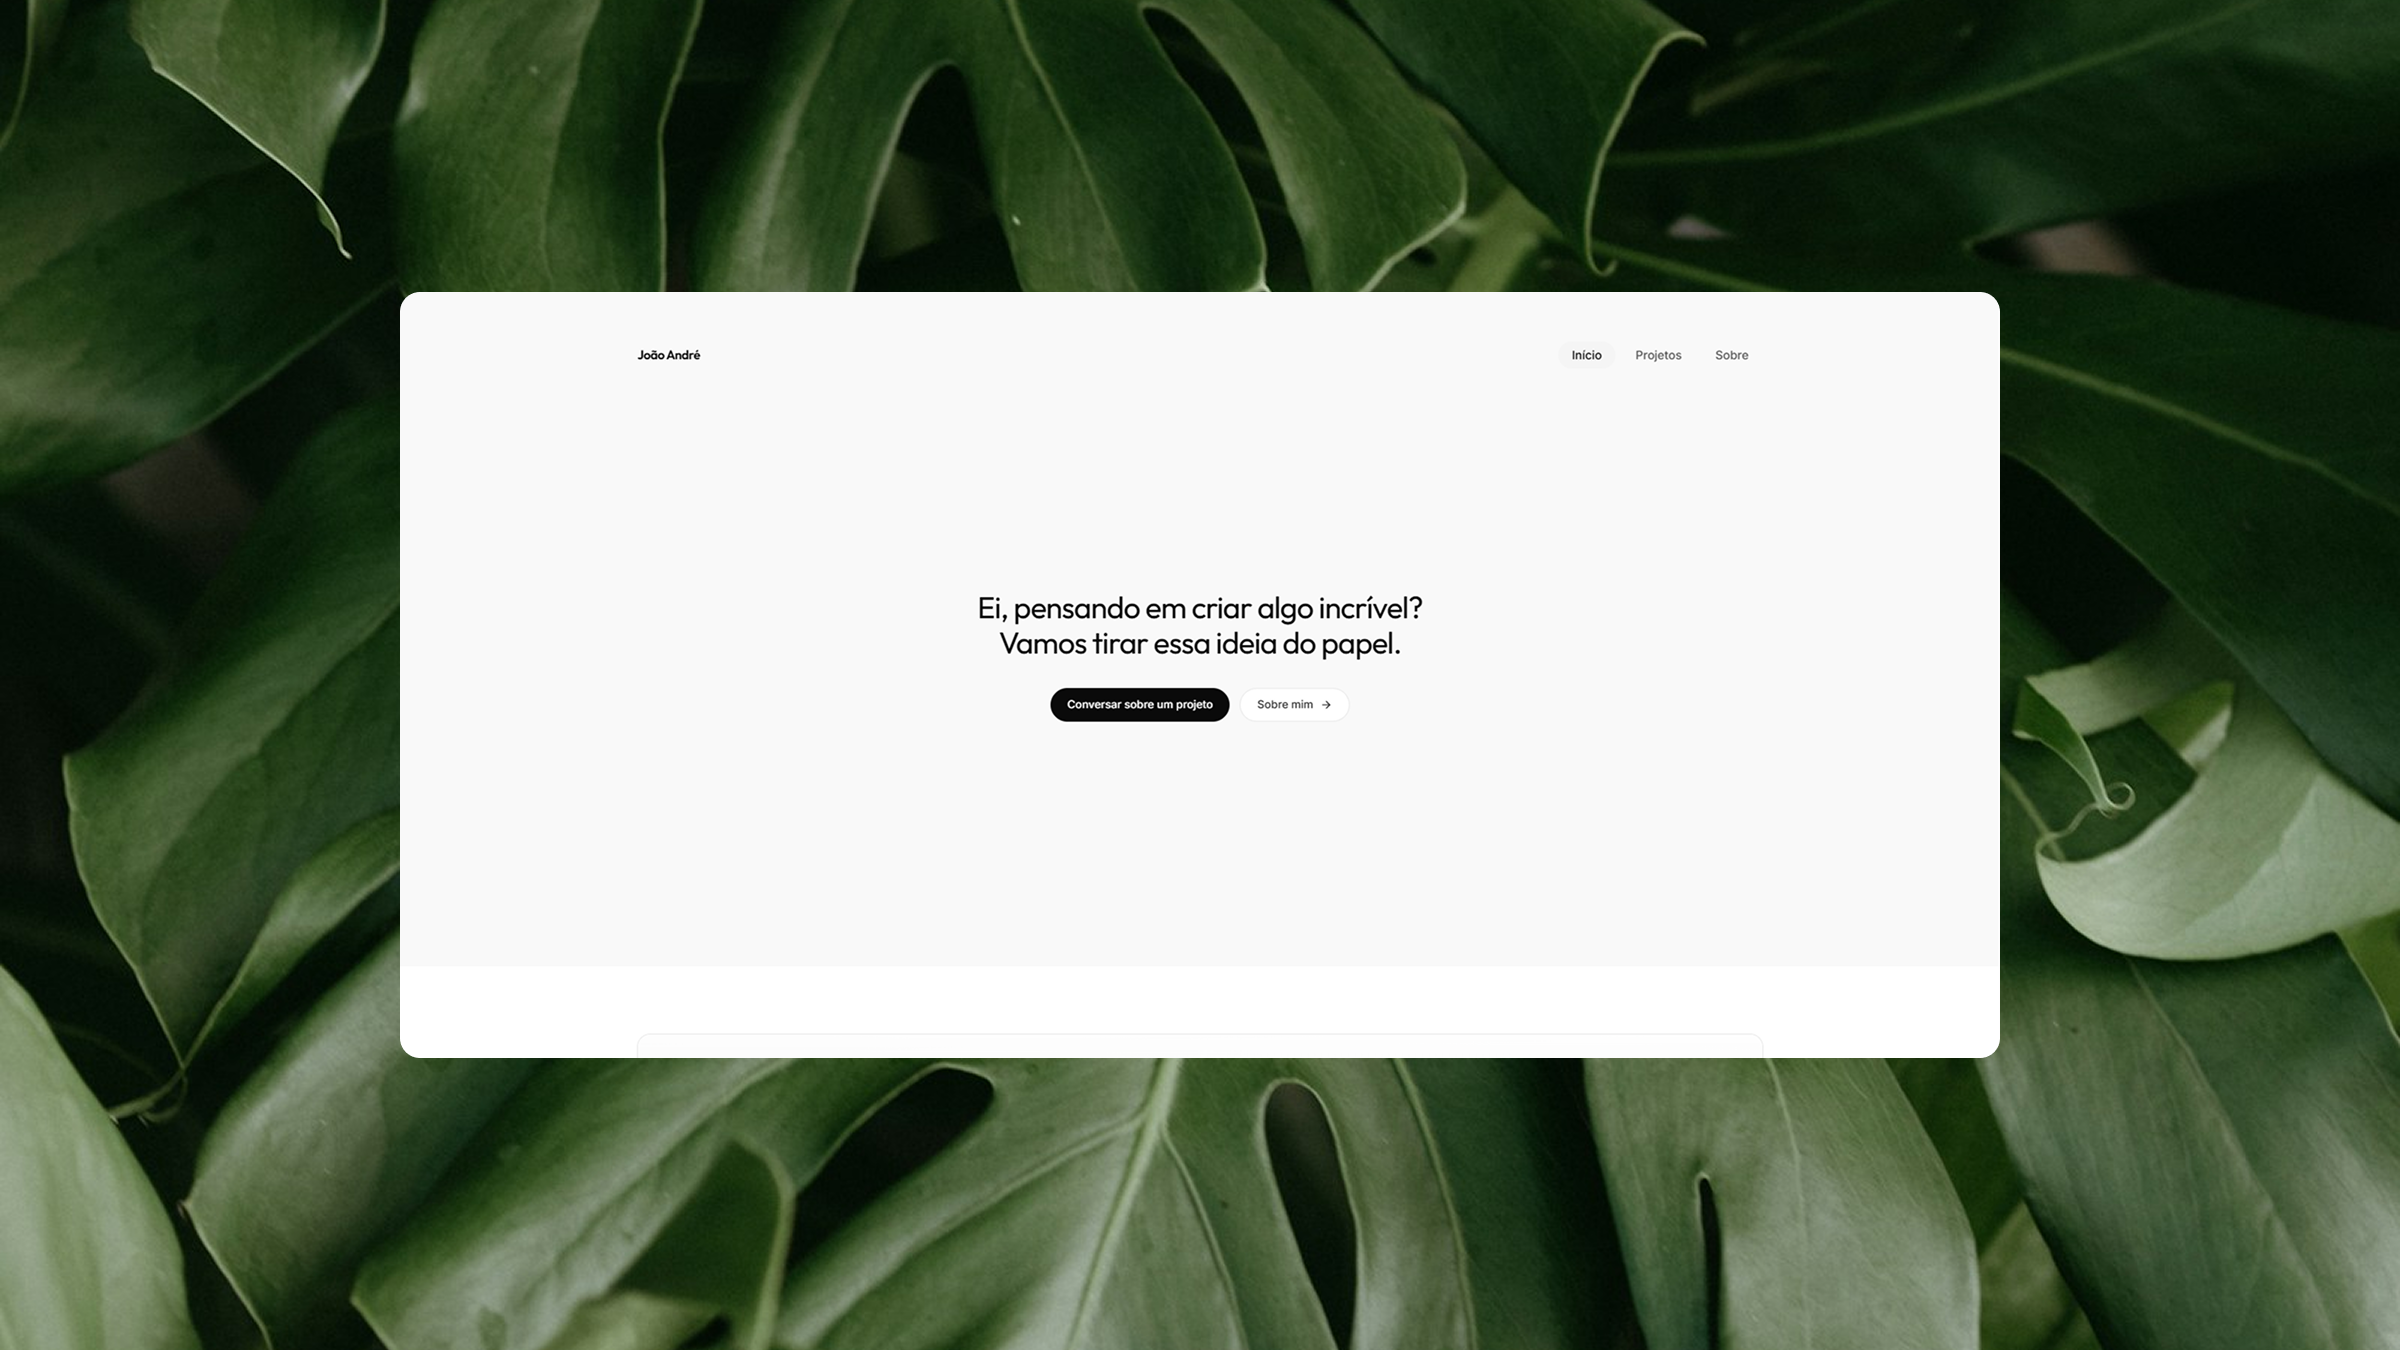
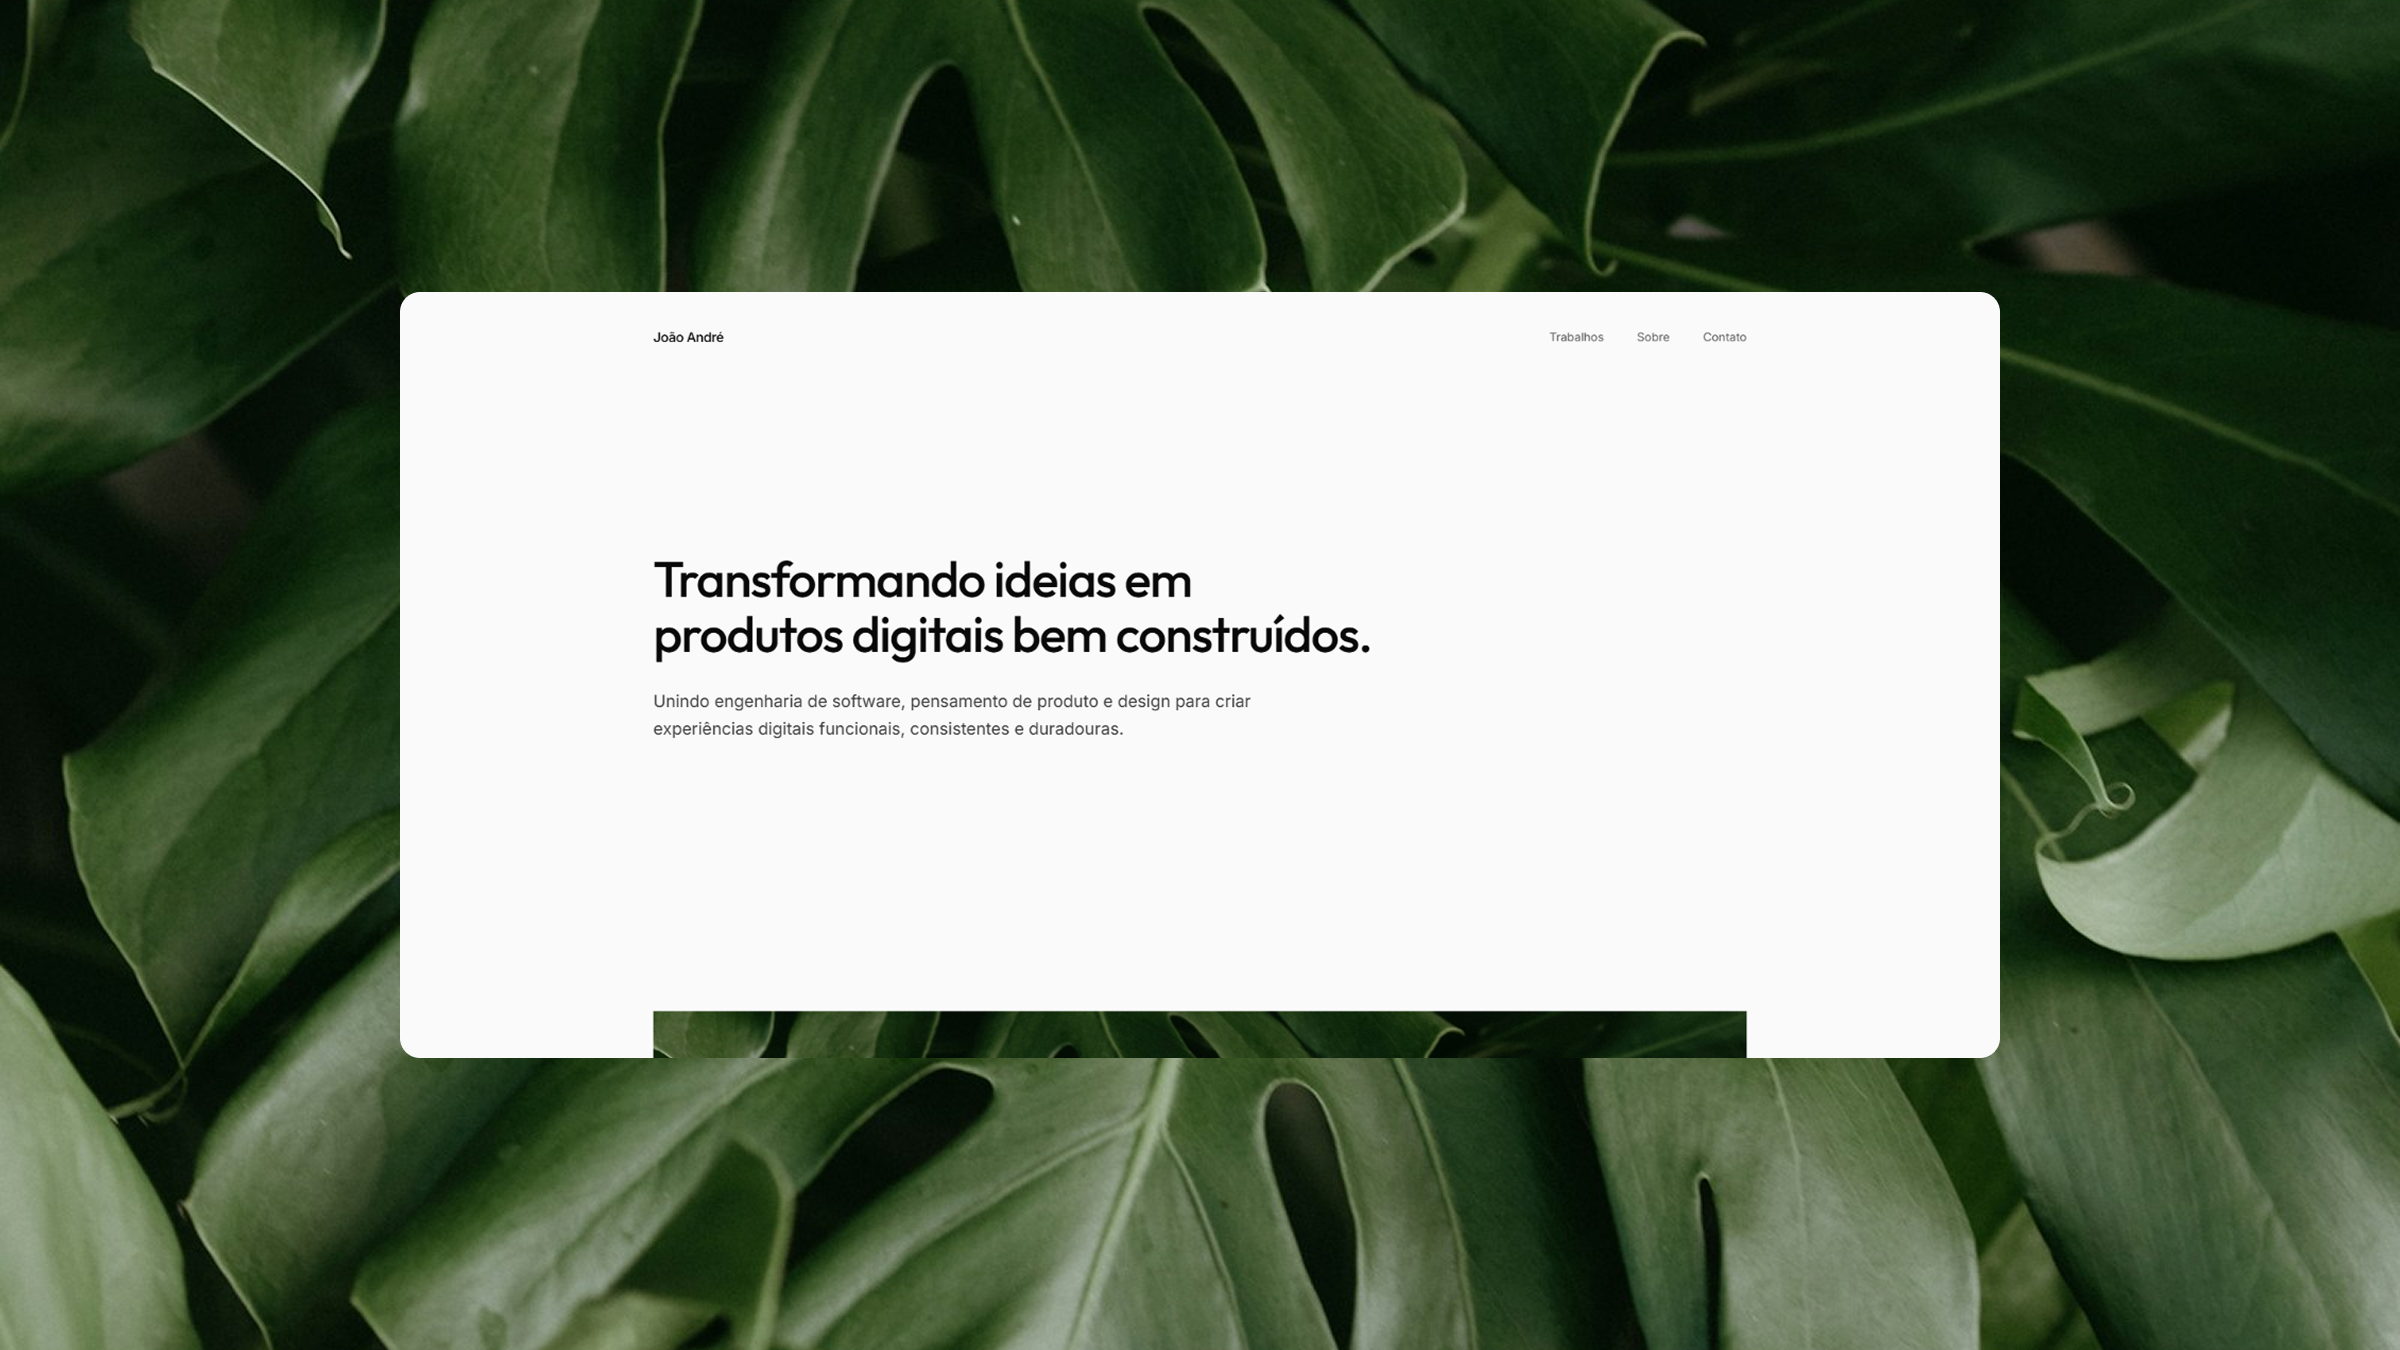
feat: atualiza informações e imagens dos projetos

diff --git a/src/data/projects.ts b/src/data/projects.ts
@@ -58,18 +58,20 @@ export const PROJECTS: ProjectItem[] = [
     {
         slug: "vitrine",
         title: "Vitrine",
-        context: "Micro-SaaS & E-commerce",
+        context: "Micro-SaaS & Creator Economy",
         year: "2026",
         summary:
-            "Plataforma micro-SaaS voltada para pequenos lojistas que vendem pelo Instagram e fecham pedidos pelo WhatsApp. O projeto centraliza o catálogo em um link leve para a bio, permitindo a seleção de produtos e o encaminhamento do pedido formatado diretamente no aplicativo de mensagens.",
+            "Plataforma de Bio Store voltada para criadores de conteúdo e infoprodutores monetizarem sua audiência. Transforma o link da bio em uma loja digital enxuta inspirada em Bento UI, com checkout nativo em segundos via Pix e Cartão e entrega automatizada de arquivos digitais.",
+        imageSrc: "/projects/vitrine.png",
         aspectRatio: "aspect-[16/10]",
+        githubUrl: "https://github.com/Jhnvida/vitrine",
         sections: {
             overview:
-                "Muitos pequenos empreendedores utilizam o Instagram como vitrine principal, mas enfrentam grande atrito na etapa de fechar pedidos: o envio manual de dezenas de fotos ou catálogos pesados em PDF no WhatsApp gera conversas confusas, demora no atendimento e perda frequente de vendas. O Vitrine foi concebido para resolver esse gargalo, oferecendo uma plataforma ágil onde cada lojista tem um link único e leve para a bio, com catálogo online otimizado para celulares.",
+                "Criadores de conteúdo, mentores e profissionais independentes costumam concentrar sua distribuição no Instagram, mas enfrentavam atrito severo para converter seguidores em compradores. O mercado dividia-se entre agregadores de links estáticos, que apenas dispersam o tráfego sem capacidade transacional, e plataformas tradicionais de infoprodutos, cujos checkouts burocráticos e extensos destroem a conversão de microprodutos de impulso (como templates, e-books e planilhas). O Vitrine foi concebido para ocupar esse espaço ideal: transformar o link da bio em uma mini-loja de altíssima velocidade e estética refinada, permitindo que a compra seja concluída em menos de 30 segundos no próprio navegador do aplicativo.",
             solutions:
-                "Desenvolvemos uma experiência de compra prática em que o cliente navega pelos produtos, escolhe variações, adiciona itens ao carrinho e encaminha o pedido pronto e formatado diretamente para a conversa com o vendedor no WhatsApp. Para o lojista, a plataforma conta com um painel administrativo com upload e compressão automática de fotos no navegador antes do envio, métricas de visitas e conversão, além de integração com Stripe para faturamento recorrente com período de testes e tolerância bancária.",
+                "Projetamos uma interface modular e mobile-first orientada pelos princípios de Bento UI, garantindo elegância visual e hierarquia clara para os produtos e links do criador. Eliminamos redirecionamentos externos integrando um drawer de checkout nativo acoplado ao Stripe para liquidação instantânea via Pix dinâmico e cartão de crédito. Implementamos uma esteira de entrega digital automatizada com provisionamento de links de download seguros e temporários via Supabase Storage e confirmações transacionais disparadas pelo Resend, além de um painel de controle protegido com autenticação SSR e monitoramento de saldos e conversões.",
             results:
-                "O projeto encontra-se atualmente em fase de desenvolvimento e estruturação contínua. As principais fundações técnicas - arquitetura moderna no Next.js 16 com Server Actions, segurança e isolamento multi-inquilino via Supabase Row Level Security (RLS) e suíte de testes com Vitest - já foram consolidadas, preparando o sistema para testes e validação com os primeiros lojistas.",
+                "Uma infraestrutura moderna e escalável arquitetada em monorepo Turborepo com Next.js 16 (App Router, Turbopack e Server Actions), TypeScript estrito e Tailwind CSS. A persistência e as regras de negócio são resguardadas por políticas estritas de Row Level Security (RLS) no PostgreSQL do Supabase e rotas autenticadas sob a convenção proxy, cobertas por uma suíte de testes de integração automatizados. Com as etapas de base, modelagem e integração cloud validadas, o projeto encontra-se pronto para a fase de testes com criadores fundadores.",
         },
     },
 ];
